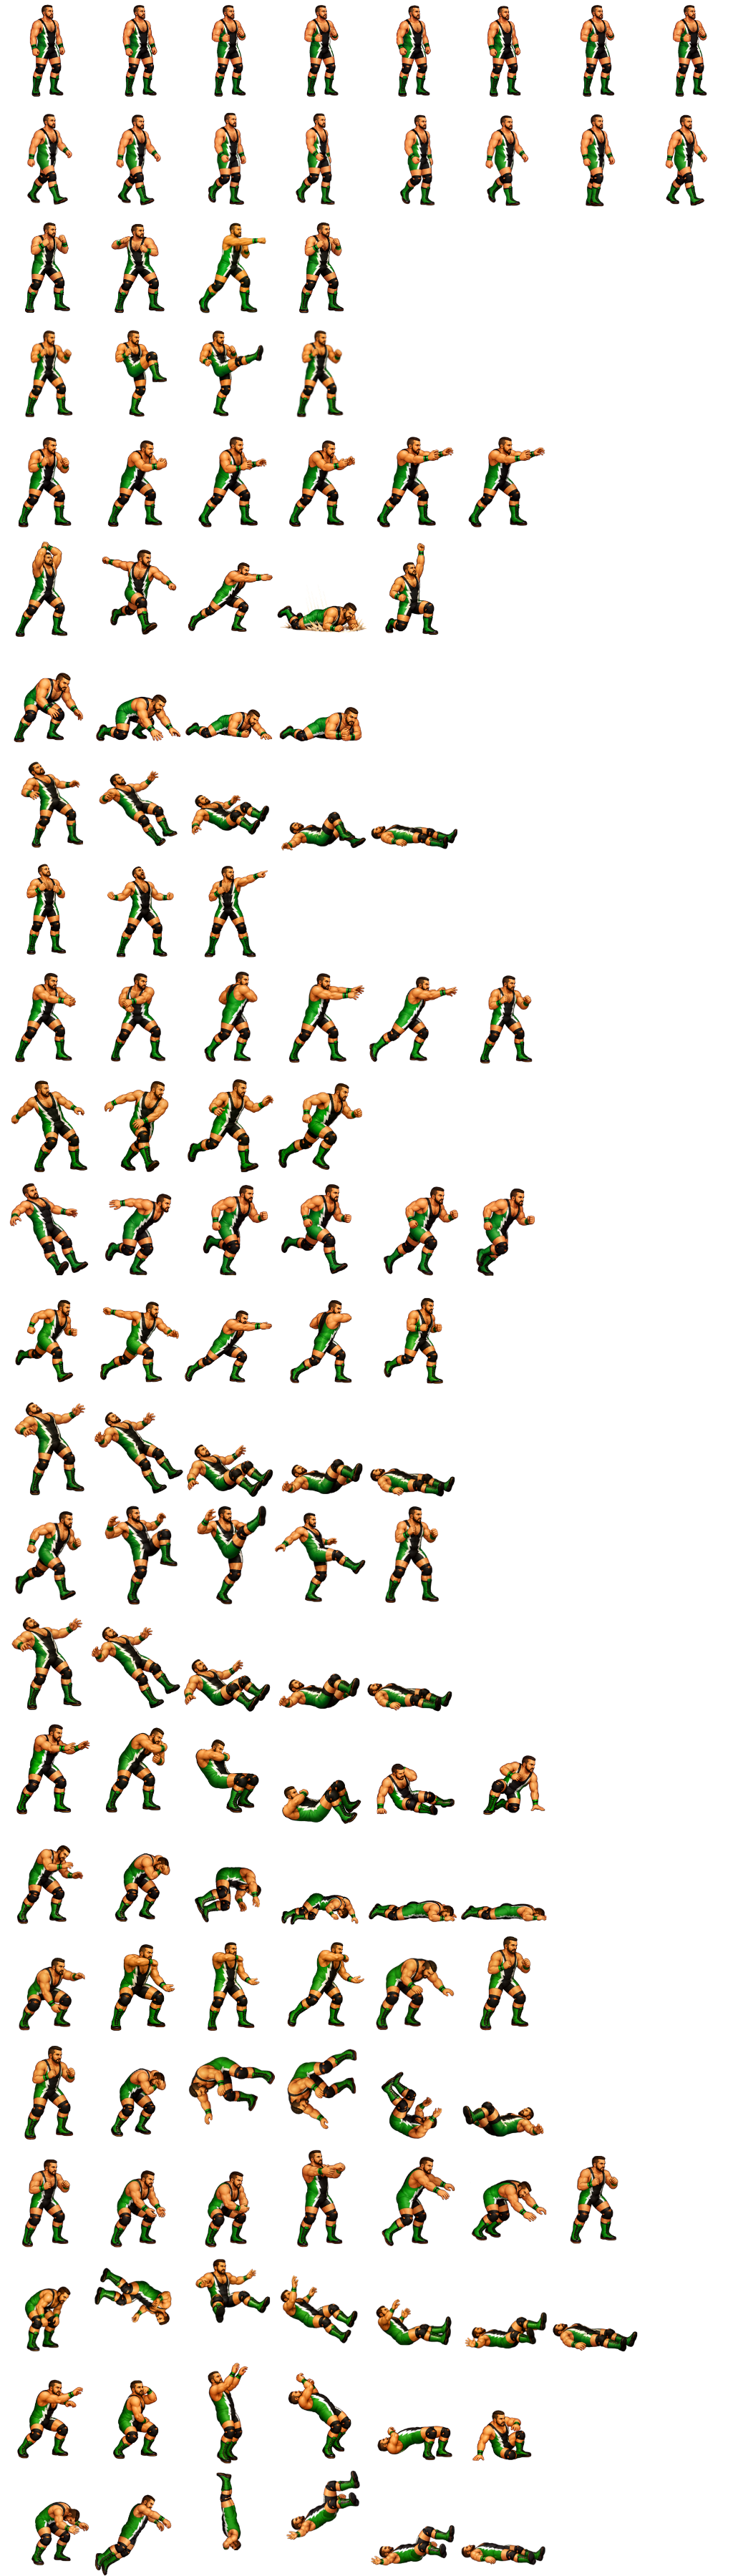
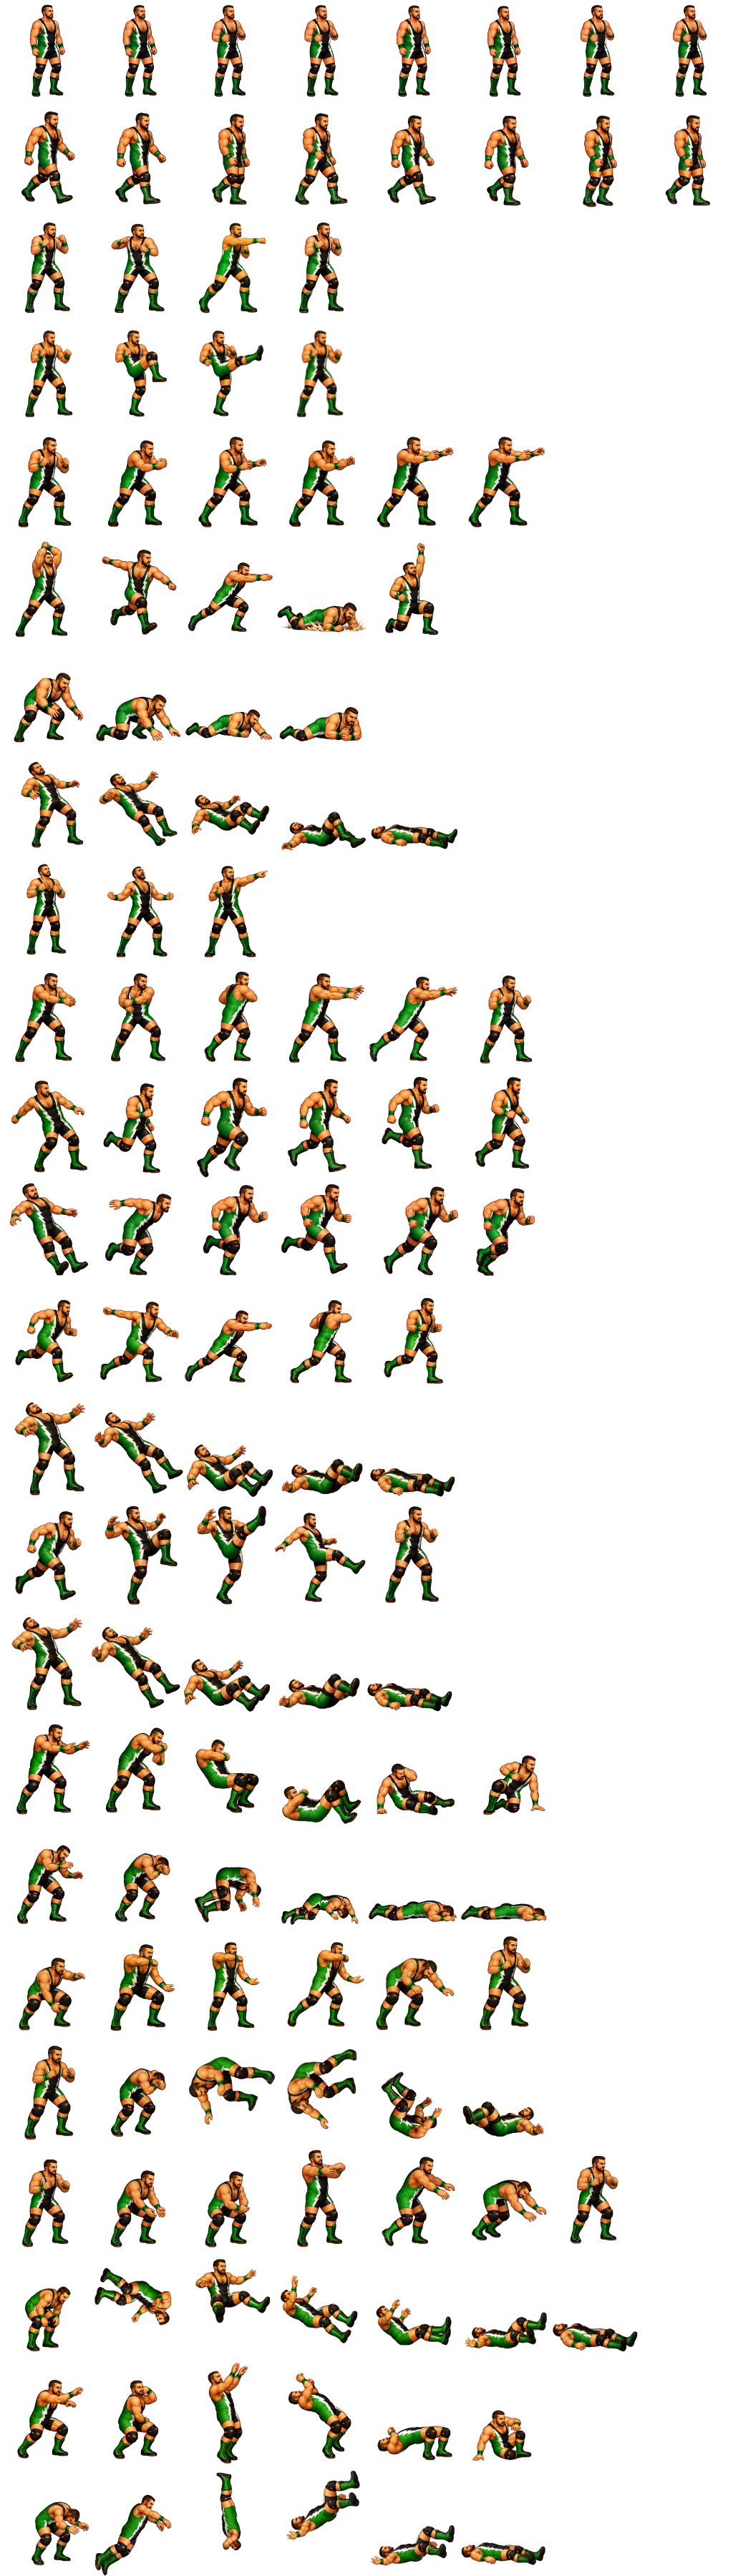
Add files via upload

diff --git a/src/main.js b/src/main.js
@@ -12,7 +12,7 @@ ringImage.src = "assets/indiemania-ring.png";
 const ringFrontImage = new Image();
 ringFrontImage.src = "assets/indiemania-ring-front.png";
 const johnnyAtlas = new Image();
-johnnyAtlas.src = "assets/johnny-toxic-expanded-atlas.png?v=expanded-2";
+johnnyAtlas.src = "assets/johnny-toxic-expanded-atlas.png?v=run-row-6-1";
 const joeyAtlas = new Image();
 joeyAtlas.src = "assets/joey-image-atlas.png?v=full-template-1";
 const philAtlas = new Image();
@@ -40,7 +40,7 @@ const SPRITE_CELL = { w: 128, h: 150 };
 const JOHNNY_ANIMS = {
   idle: { row: 0, frames: 8, fps: 6 },
   walk: { row: 1, frames: 8, fps: 12 },
-  run: { row: 10, frames: 3, frameOffset: 1, fps: 12 },
+  run: { row: 10, frames: 6, fps: 13 },
   punch: { row: 2, frames: 4, fps: 10, once: true },
   kick: { row: 3, frames: 4, fps: 8, once: true },
   grapple: { row: 4, frames: 6, fps: 9, once: true },
@@ -55,7 +55,7 @@ const JOHNNY_ANIMS = {
   whiff: { row: 2, frames: 2, fps: 9, once: true },
   celebrate: { row: 8, frames: 3, fps: 4 },
   irishWhip: { row: 9, frames: 6, fps: 9, once: true },
-  whipped: { row: 10, frames: 4, fps: 8 },
+  whipped: { row: 10, frames: 6, fps: 10 },
   rebound: { row: 11, frames: 6, fps: 11 },
   clothesline: { row: 12, frames: 5, fps: 9, once: true },
   clotheslineTake: { row: 13, frames: 5, fps: 8, once: true },
@@ -1860,8 +1860,8 @@ function clamp(value, min, max) {
 }
 
 function isMoveLocked(f) {
-  return f.actionTime > 0 || !!f.moveMotion || [
-    "irishWhip", "ddt", "ddtTake", "bodyslam", "bodyslamTake", "powerbomb", "powerbombTake", "suplex", "suplexTake"
+  return f.actionTime > 0 || f.down > 0 || !!f.moveMotion || [
+    "down", "pinned", "rise", "irishWhip", "ddt", "ddtTake", "bodyslam", "bodyslamTake", "powerbomb", "powerbombTake", "suplex", "suplexTake"
   ].includes(f.state);
 }
 

diff --git a/index.html b/index.html
@@ -45,6 +45,6 @@
         </div>
       </section>
     </main>
-    <script src="src/main.js?v=keyboard-actions-1"></script>
+    <script src="src/main.js?v=johnny-run-row-6-1"></script>
   </body>
 </html>

diff --git a/work/build_johnny_expanded_atlas.py b/work/build_johnny_expanded_atlas.py
@@ -4,7 +4,7 @@ from PIL import Image
 
 
 ROOT = Path(__file__).resolve().parents[1]
-SOURCE = Path(r"C:\Users\offic\Downloads\NEW Johnny Toxic.png")
+SOURCE = Path(r"C:\Users\offic\Downloads\Johnny Toxic (1).png")
 OUT = ROOT / "assets" / "johnny-toxic-expanded-atlas.png"
 
 CELL_W = 128
@@ -17,7 +17,7 @@ ROW_Y = TOP + 55
 
 ROWS = [
     8, 8, 4, 4, 6, 5, 4, 5, 3,
-    6, 4, 6, 5, 5, 5, 5, 6, 6,
+    6, 6, 6, 5, 5, 5, 5, 6, 6,
     6, 6, 7, 7, 6, 6,
 ]
 